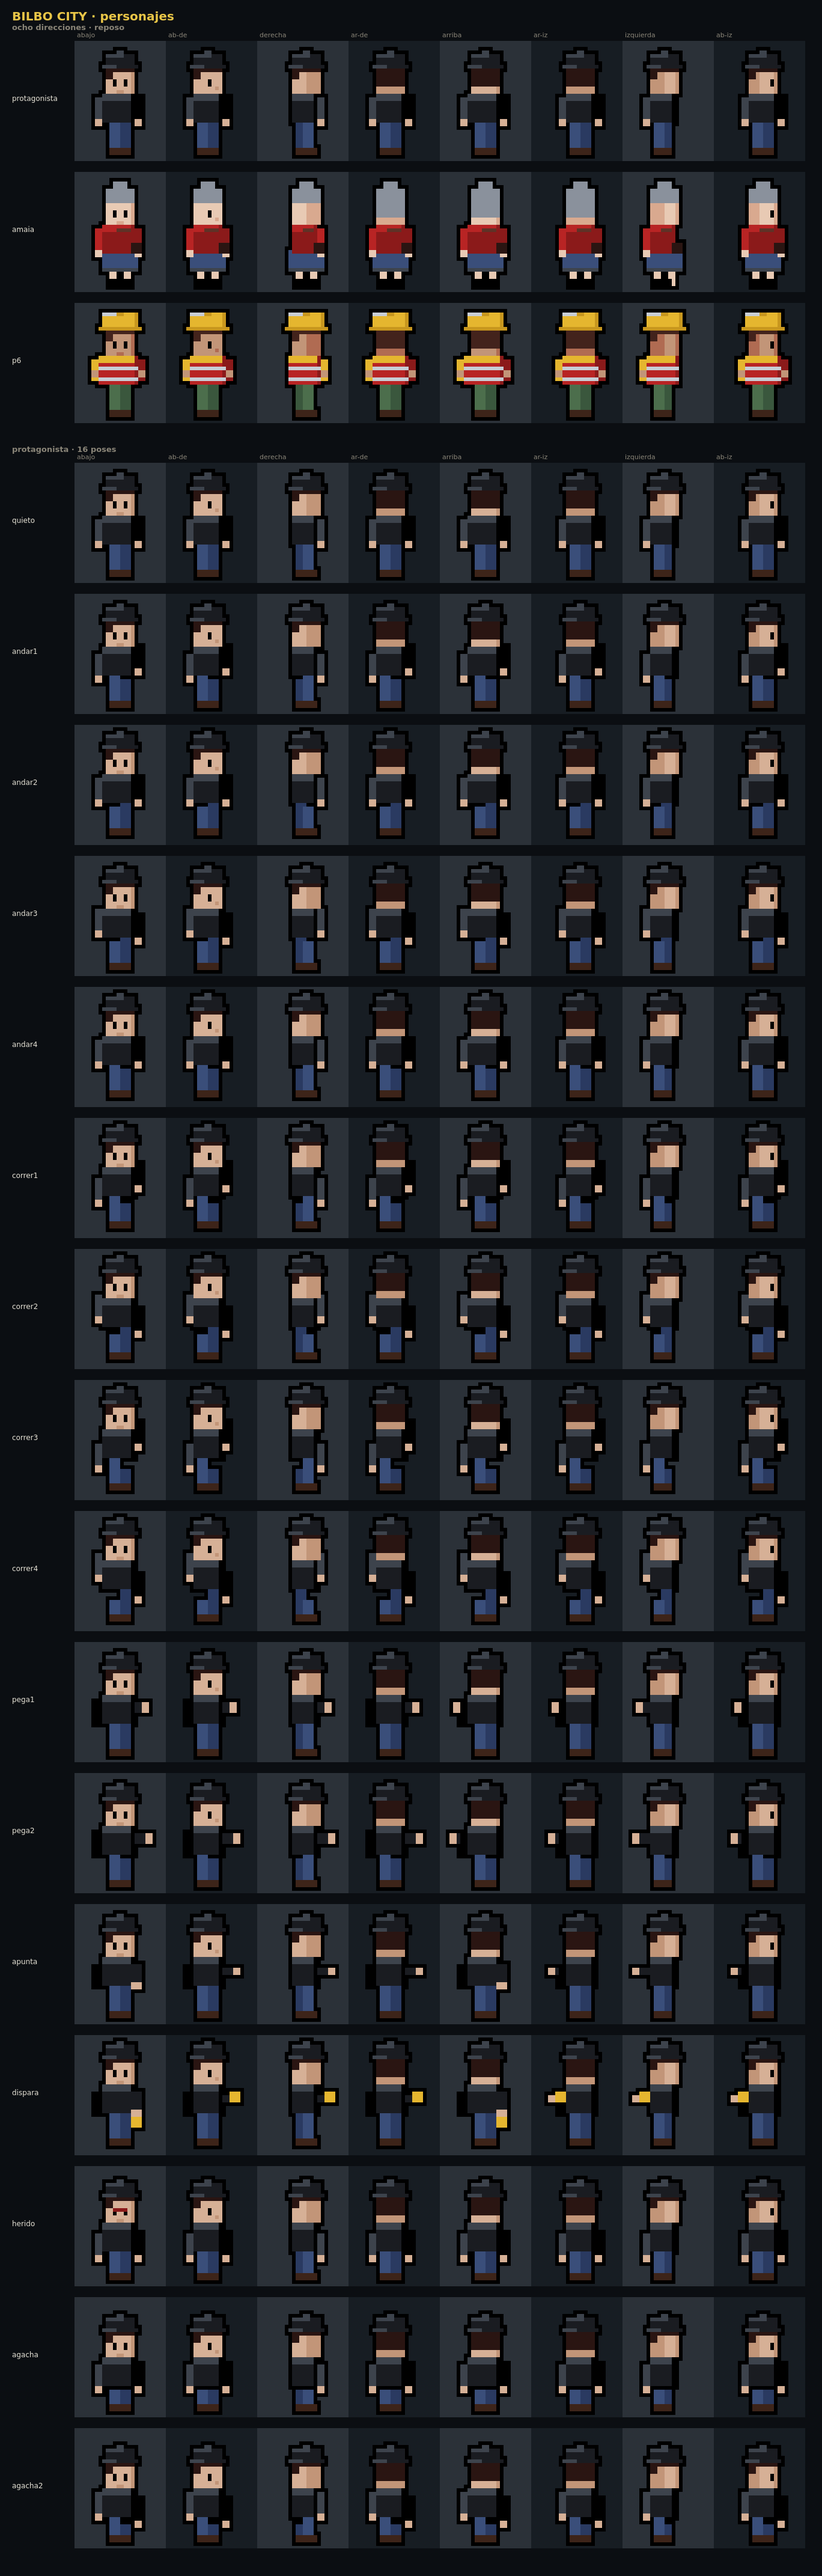
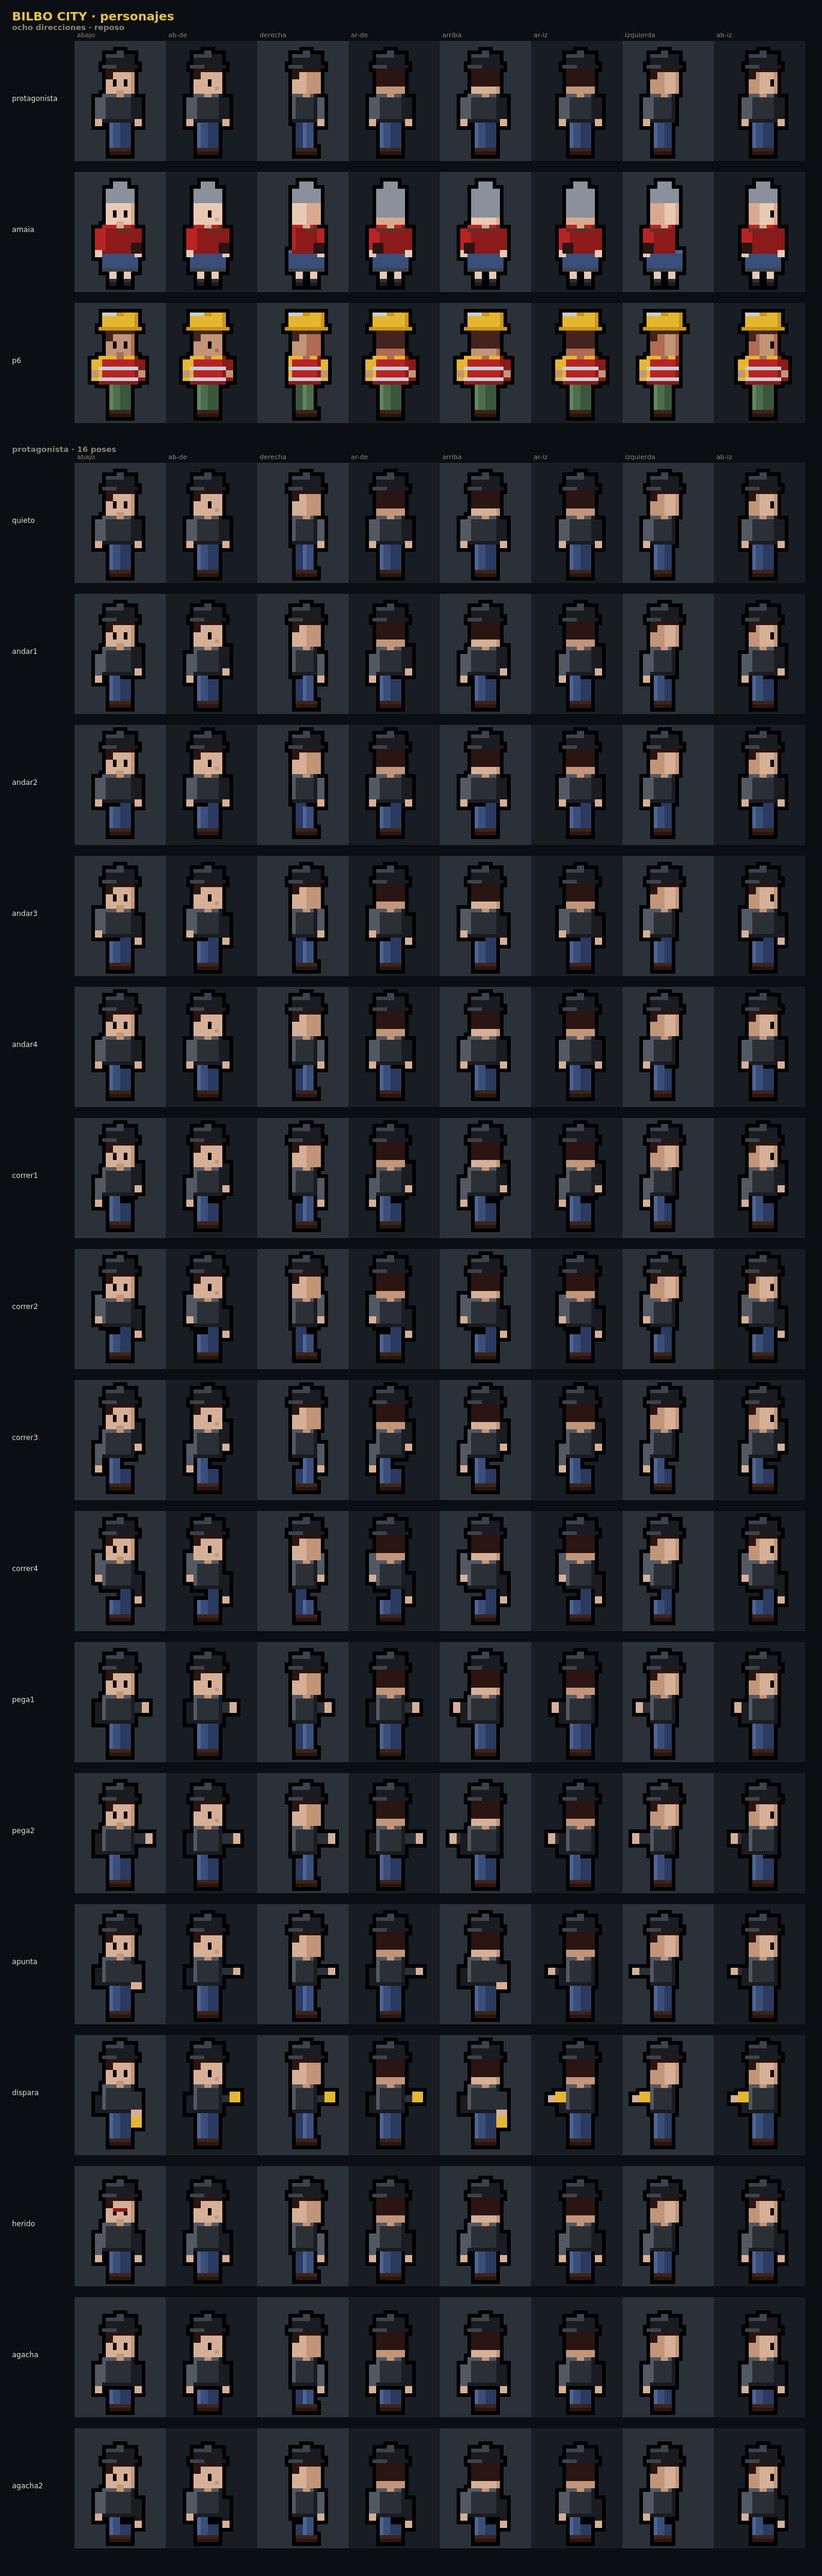
feat(bilbo-city): volumen de verdad en la ropa, y el bolso gira con el cuerpo
La lámina a --esc 6 dejaba ver cuatro cosas. Tres eran el mismo fallo por
debajo: la ropa se pintaba casi plana.

- Ninguna sombra puede ser el color del contorno. `cazadora`, `uniforme`,
  `delantal`, `vestir` y `uniformeP` llevaban `s: negro`, que es justo el
  color que pone `contorno()`: el costado derecho de la figura se comía la
  silueta y sobre fondo oscuro la cazadora del protagonista desaparecía
  entera. Ahora la sombra baja un escalón de familia y el contorno se ve.
- El torso, como manda ESTILO.md. Antes el tono claro eran las dos filas de
  arriba enteras —una franja, no volumen—. Ahora 1 px claro arriba y a la
  izquierda, base en el cuerpo, oscuro abajo y a la derecha. La fila oscura
  de abajo hace de dobladillo y despega el torso de las perneras.
- Las perneras y el calzado ganan su terna. La pierna de delante lleva canto
  claro; el zapato tiene suela. Un zapato de un solo tono se leía como un
  tapón, y si ese tono era el negro del contorno, ni eso.
- El bolso estaba clavado en el mismo costado en las ocho direcciones. Va
  colgado de un hombro: de espaldas se ve al otro lado y la correa cruza
  entera; de perfil, solo el bulto que mira.

Dos de propina, que se veían al arreglar lo anterior: dos píxeles de cuello
bajo la barbilla —sin ellos la cabeza se apoya en los hombros y la figura es
un muñeco de dos piezas— y los pies bajo falda, que se dibujaban con la
plantilla lateral de tres y cuatro píxeles sobre perneras de dos, y asomaba
[…]

diff --git a/bilbo-city/referencia/bilbo-city.html b/bilbo-city/referencia/bilbo-city.html
@@ -2101,7 +2101,7 @@ const TORSOS={
  camisa:{b:C.blanco,s:C.crema,l:C.blanco,manga:'larga'},
  camisaRem:{b:C.blanco,s:C.crema,l:C.blanco,manga:'corta'},
  chaqueta:{b:C.azul,s:C.azulO,l:C.azulL,manga:'larga'},
- cazadora:{b:C.carbon,s:C.negro,l:C.gris,manga:'larga'},
+ cazadora:{b:C.asfalto,s:C.carbon,l:C.grisL,manga:'larga'},
  sudadera:{b:C.grisL,s:C.gris,l:C.acero,manga:'larga',capucha:1},
  chandal:{b:C.verde,s:C.verdeO,l:C.verdeL,manga:'larga',raya:C.hueso},
  mono:{b:C.azulL,s:C.azul,l:C.acero,manga:'larga',peto:1},
@@ -2109,19 +2109,22 @@ const TORSOS={
  gabardina:{b:C.crema,s:C.hormigonO,l:C.hueso,manga:'larga',largo:1},
  jersey:{b:C.rojoO,s:C.sangre,l:C.rojo,manga:'larga'},
  bata:{b:C.blanco,s:C.crema,l:C.blanco,manga:'larga',largo:1},
- uniforme:{b:C.azulO,s:C.negro,l:C.azul,manga:'larga',placa:1},
+ uniforme:{b:C.azulO,s:C.ria1,l:C.azul,manga:'larga',placa:1},
  camiseta:{b:C.mostaza,s:C.mostazaO,l:C.mostaza,manga:'corta'},
  polo:{b:C.verdeL,s:C.verde,l:C.verdeL,manga:'corta'},
  reflectante:{b:C.rojo,s:C.rojoO,l:C.mostaza,manga:'corta',bandas:1},
- delantal:{b:C.carbon,s:C.negro,l:C.gris,manga:'corta',mandil:1},
+ delantal:{b:C.asfalto,s:C.carbon,l:C.grisL,manga:'corta',mandil:1},
 };
 const PIERNAS={
- vaquero:{b:'#3a4f6b',s:'#2c3d53'},vestir:{b:C.carbon,s:C.negro},
- chandalP:{b:C.verdeO,s:'#24422a',raya:C.hueso},monoP:{b:C.azulL,s:C.azul},
- falda:{b:C.morado,s:'#443759',falda:1},short:{b:C.crema,s:C.hormigonO,corto:1},
- cargo:{b:'#5d5b45',s:'#474535'},uniformeP:{b:C.azulO,s:C.negro},
+ vaquero:{b:'#3a4f6b',s:'#2c3d53',l:C.ria5},vestir:{b:C.asfalto,s:C.carbon,l:C.gris},
+ chandalP:{b:C.verdeO,s:'#24422a',l:C.verde,raya:C.hueso},monoP:{b:C.azulL,s:C.azul,l:C.ria5},
+ falda:{b:C.morado,s:'#443759',l:C.ria5,falda:1},short:{b:C.crema,s:C.hormigonO,l:C.hueso,corto:1},
+ cargo:{b:'#5d5b45',s:'#474535',l:C.verde5},uniformeP:{b:C.azulO,s:C.ria1,l:C.azul},
 };
-const CALZADO={deportivas:C.blanco,botas:'#3a2d22',zapatos:C.negro,katiuskas:C.mostazaO};
+/* El calzado va con su terna como todo lo demás: la suela es la sombra. Un zapato de un
+   solo tono se leía como un tapón, y si ese tono era el negro del contorno, ni eso. */
+const CALZADO={deportivas:{b:C.blanco,s:C.acero},botas:{b:'#3a2d22',s:C.ladrillo0},
+ zapatos:{b:C.asfalto,s:C.carbon},katiuskas:{b:C.mostazaO,s:C.luz2}};
 
 function dibChar(cfg,pose,d8){
  const M=MAPA8[d8], dir=M.b, frente=M.f, espalda=M.e;
@@ -2133,24 +2136,47 @@ function dibChar(cfg,pose,d8){
  const oy=P_.y, yt=P_.yt||0, w=comp.w, hom=comp.hom-(diag?1:0)-(lateral?2:0);
  const izqV=dir===IZ, derV=dir===DE, arr=(dir===AR)||espalda;
  const py=17+oy, l1=P_.p[0], l2=P_.p[1];
- if(PN.falda){P(g,cx-w/2-1,py-1,w+2,6,PN.b);P(g,cx-w/2-1,py+4,w+2,1,PN.s);
-  P(g,cx-3,py+5,2,4,cfg.piel);P(g,cx+1,py+5,2,4,cfg.piel);}
+ /* La pernera de delante lleva su canto claro a la izquierda, que es de donde viene la
+    luz, y la de detrás se queda en sombra: sin eso las dos piernas son un solo bloque. */
+ if(PN.falda){P(g,cx-w/2-1,py-1,w+2,6,PN.b);P(g,cx-w/2-1,py-1,w+2,1,PN.l);P(g,cx-w/2-1,py+4,w+2,1,PN.s);
+  P(g,cx-3,py+5,2,4,cfg.piel);P(g,cx+1,py+5,2,4,cfg.piel);
+  P(g,cx-3,py+8,2,1,cfg.pielS);P(g,cx+1,py+8,2,1,cfg.pielS);}
  else if(lateral){const dx=derV?1:-1;
   P(g,cx-2-dx,py+l2,3,8-l2,PN.s);P(g,cx-2+dx,py+l1,3,8-l1,PN.b);
+  P(g,cx-2+dx,py+l1,1,8-l1,PN.l);
   if(PN.corto)P(g,cx-2+dx,py+4,3,4,cfg.piel);}
  else{P(g,cx-3,py+l1,3,8-l1,PN.b);P(g,cx,py+l2,3,8-l2,PN.s);
+  P(g,cx-3,py+l1,1,8-l1,PN.l);
   if(PN.raya){P(g,cx-3,py+l1,1,8-l1,PN.raya);P(g,cx+2,py+l2,1,8-l2,PN.raya);}
   if(PN.corto){P(g,cx-3,py+4,3,4,cfg.piel);P(g,cx,py+4,3,4,cfg.piel);}}
- if(lateral){const dx=derV?1:-1;
-  P(g,cx-2-dx,24+oy,3,2,CALZADO[cfg.calzado]);P(g,cx-2+dx,24+oy,4,2,CALZADO[cfg.calzado]);}
- else{P(g,cx-3,24+oy,3,2,CALZADO[cfg.calzado]);P(g,cx,24+oy,3,2,CALZADO[cfg.calzado]);}
+ /* Bajo falda los pies van donde la falda deja las piernas —dos píxeles— y no donde los
+    pone la plantilla lateral, que son tres y cuatro: descuadrados asomaba medio zapato por
+    fuera de la pernera. */
+ const Z=CALZADO[cfg.calzado];
+ if(PN.falda){P(g,cx-3,24+oy,2,2,Z.b);P(g,cx+1,24+oy,2,2,Z.b);
+  P(g,cx-3,25+oy,2,1,Z.s);P(g,cx+1,25+oy,2,1,Z.s);}
+ else if(lateral){const dx=derV?1:-1;
+  P(g,cx-2-dx,24+oy,3,2,Z.b);P(g,cx-2+dx,24+oy,4,2,Z.b);
+  P(g,cx-2-dx,25+oy,3,1,Z.s);P(g,cx-2+dx,25+oy,4,1,Z.s);}
+ else{P(g,cx-3,24+oy,3,2,Z.b);P(g,cx,24+oy,3,2,Z.b);
+  P(g,cx-3,25+oy,3,1,Z.s);P(g,cx,25+oy,3,1,Z.s);}
  const ty=9+oy+yt,th=T.largo?10:8;
- P(g,cx-hom/2,ty,hom,th,T.b);P(g,cx-hom/2,ty,hom,2,T.l);P(g,cx+hom/2-1,ty,1,th,T.s);
+ /* Antes el tono claro eran las dos filas de arriba enteras: eso no es volumen, es una
+    franja, y el torso quedaba de cartón. La regla de ESTILO.md es 1 px claro arriba y a la
+    izquierda, base en el cuerpo y oscuro abajo y a la derecha. La fila oscura de abajo hace
+    además de dobladillo y despega el torso de las perneras. */
+ P(g,cx-hom/2,ty,hom,th,T.b);
+ P(g,cx-hom/2,ty,hom,1,T.l);P(g,cx-hom/2,ty,1,th,T.l);
+ P(g,cx+hom/2-1,ty,1,th,T.s);P(g,cx-hom/2,ty+th-1,hom,1,T.s);
  if(T.raya)P(g,cx-hom/2,ty,1,th,T.raya);
  if(T.peto){P(g,cx-hom/2+1,ty+2,hom-2,5,T.l);P(g,cx-1,ty+3,2,2,T.s);}
  if(T.bandas){P(g,cx-hom/2,ty+3,hom,1,C.hueso);P(g,cx-hom/2,ty+6,hom,1,C.hueso);}
- if(T.mandil&&!arr)P(g,cx-hom/2+1,ty+2,hom-2,th-1,C.crema);
+ if(T.mandil&&!arr)P(g,cx-hom/2+1,ty+2,hom-2,th-3,C.crema);
  if(T.placa&&!arr)P(g,cx-hom/2+1,ty+3,2,2,C.mostaza);
+ /* Dos píxeles de cuello bajo la barbilla. Sin ellos la cabeza se apoya en los hombros
+    sin transición y la figura parece un muñeco de dos piezas. Bajo capucha no van: ahí lo
+    que hay es tela. */
+ if(!T.capucha)P(g,cx-1,ty,2,1,cfg.pielS);
  if(T.capucha)P(g,cx-hom/2,ty-1,hom,3,T.s);
  const b1=P_.b[0],b2=P_.b[1];
  const manoY=T.manga==='corta'?ty+4:ty+7, bx1=cx-hom/2-2, bx2=cx+hom/2;
@@ -2223,7 +2249,14 @@ function capasEncima(g,cfg,cx,hy,ty,hom,E,soloGrandes){
  const A=cfg.acces;
  if(A==='mochila'){if(arr)P(g,cx-4,ty+1,8,7,C.verdeO);
   else{P(g,cx-hom/2-1,ty+2,2,5,C.verdeO);P(g,cx+hom/2-1,ty+2,2,5,C.verdeO);}}
- else if(A==='bolso'){P(g,cx+hom/2-1,ty+5,3,3,C.maderaO);P(g,cx-1,ty+1,hom/2,1,C.madera);}
+ /* El bolso va colgado de un hombro y por eso no puede quedarse clavado en el mismo
+    costado en las ocho direcciones, que es lo que hacía: de espaldas se ve al otro lado y
+    la correa cruza entera; de perfil, solo el bulto del lado que mira. */
+ else if(A==='bolso'){
+  if(arr){P(g,cx-hom/2-1,ty+5,3,3,C.maderaO);P(g,cx-hom/2,ty+1,hom,1,C.madera);}
+  else if(izqV){P(g,cx-hom/2-2,ty+5,3,3,C.maderaO);P(g,cx-hom/2,ty+1,hom/2,1,C.madera);}
+  else if(derV){P(g,cx+hom/2-1,ty+5,3,3,C.maderaO);P(g,cx,ty+1,hom/2,1,C.madera);}
+  else{P(g,cx+hom/2-1,ty+5,3,3,C.maderaO);P(g,cx-1,ty+1,hom/2,1,C.madera);}}
  else if(A==='bandolera'){P(g,cx-hom/2,ty+1,hom,1,C.maderaO);P(g,cx-hom/2-1,ty+5,2,3,C.madera);}
  else if(A==='bufanda'){P(g,cx-4,ty-1,8,2,C.rojo);P(g,cx+1,ty+1,2,4,C.rojoO);}
  else if(A==='gafas'&&dir===AB){P(g,cx-3,hy+4,2,2,C.carbon);P(g,cx+1,hy+4,2,2,C.carbon);P(g,cx-1,hy+4,2,1,C.carbon);}
@@ -2372,8 +2405,8 @@ function lutDe(cfg){
  pinta(R.pelo,cfg.pelo==='calvo'?[cfg.pielS,cfg.piel]
   :[cfg.pelo==='canoso'?C.pelo5:cfg.pelocol]);
  pinta(R.torso,[T.s,T.b,T.l]);
- pinta(R.piernas,[PN.s,PN.b]);
- pinta(R.calzado,[CALZADO[cfg.calzado]]);
+ pinta(R.piernas,[PN.s,PN.b,PN.l]);
+ pinta(R.calzado,[CALZADO[cfg.calzado].s,CALZADO[cfg.calzado].b]);
  return lut;}
 
 /* Dónde tiene la cabeza esta casilla de la hoja. No se da por supuesto: el dibujo traído

diff --git a/bilbo-city/unity/BilboCity/Assets/Scripts/Arte/ForjaChar.cs b/bilbo-city/unity/BilboCity/Assets/Scripts/Arte/ForjaChar.cs
@@ -73,7 +73,7 @@ public static class ForjaChar {
                 {"camisa",     new Prenda{ b=Paleta.Blanco, s=Paleta.Crema, l=Paleta.Blanco }},
                 {"camisaRem",  new Prenda{ b=Paleta.Blanco, s=Paleta.Crema, l=Paleta.Blanco, corta=true }},
                 {"chaqueta",   new Prenda{ b=Paleta.Azul, s=Paleta.AzulO, l=Paleta.AzulL }},
-                {"cazadora",   new Prenda{ b=Paleta.Carbon, s=Paleta.Negro, l=Paleta.Gris }},
+                {"cazadora",   new Prenda{ b=Paleta.Asfalto, s=Paleta.Carbon, l=Paleta.GrisL }},
                 {"sudadera",   new Prenda{ b=Paleta.GrisL, s=Paleta.Gris, l=Paleta.Acero, capucha=true }},
                 {"chandal",    new Prenda{ b=Paleta.Verde, s=Paleta.VerdeO, l=Paleta.VerdeL, raya=Paleta.Hueso, tieneRaya=true }},
                 {"mono",       new Prenda{ b=Paleta.AzulL, s=Paleta.Azul, l=Paleta.Acero, peto=true }},
@@ -81,41 +81,42 @@ public static class ForjaChar {
                 {"gabardina",  new Prenda{ b=Paleta.Crema, s=Paleta.HormigonO, l=Paleta.Hueso, largo=true }},
                 {"jersey",     new Prenda{ b=Paleta.RojoO, s=Paleta.Sangre, l=Paleta.Rojo }},
                 {"bata",       new Prenda{ b=Paleta.Blanco, s=Paleta.Crema, l=Paleta.Blanco, largo=true }},
-                {"uniforme",   new Prenda{ b=Paleta.AzulO, s=Paleta.Negro, l=Paleta.Azul, placa=true }},
+                {"uniforme",   new Prenda{ b=Paleta.AzulO, s=Paleta.Ria1, l=Paleta.Azul, placa=true }},
                 {"camiseta",   new Prenda{ b=Paleta.Mostaza, s=Paleta.MostazaO, l=Paleta.Mostaza, corta=true }},
                 {"polo",       new Prenda{ b=Paleta.VerdeL, s=Paleta.Verde, l=Paleta.VerdeL, corta=true }},
                 {"reflectante",new Prenda{ b=Paleta.Rojo, s=Paleta.RojoO, l=Paleta.Mostaza, corta=true, bandas=true }},
-                {"delantal",   new Prenda{ b=Paleta.Carbon, s=Paleta.Negro, l=Paleta.Gris, corta=true, mandil=true }},
+                {"delantal",   new Prenda{ b=Paleta.Asfalto, s=Paleta.Carbon, l=Paleta.GrisL, corta=true, mandil=true }},
             };
             return _torsos;
         }
     }
 
-    struct Pantalon { public Color32 b, s, raya; public bool tieneRaya, falda, corto; }
+    struct Pantalon { public Color32 b, s, l, raya; public bool tieneRaya, falda, corto; }
     static Dictionary<string,Pantalon> _piernas;
     static Dictionary<string,Pantalon> Piernas {
         get {
             if (_piernas != null) return _piernas;
             _piernas = new Dictionary<string,Pantalon> {
-                {"vaquero",   new Pantalon{ b=Paleta.H("#3a4f6b"), s=Paleta.H("#2c3d53") }},
-                {"vestir",    new Pantalon{ b=Paleta.Carbon, s=Paleta.Negro }},
-                {"chandalP",  new Pantalon{ b=Paleta.VerdeO, s=Paleta.H("#24422a"), raya=Paleta.Hueso, tieneRaya=true }},
-                {"monoP",     new Pantalon{ b=Paleta.AzulL, s=Paleta.Azul }},
-                {"falda",     new Pantalon{ b=Paleta.Morado, s=Paleta.H("#443759"), falda=true }},
-                {"short",     new Pantalon{ b=Paleta.Crema, s=Paleta.HormigonO, corto=true }},
-                {"cargo",     new Pantalon{ b=Paleta.H("#5d5b45"), s=Paleta.H("#474535") }},
-                {"uniformeP", new Pantalon{ b=Paleta.AzulO, s=Paleta.Negro }},
+                {"vaquero",   new Pantalon{ b=Paleta.H("#3a4f6b"), s=Paleta.H("#2c3d53"), l=Paleta.Ria5 }},
+                {"vestir",    new Pantalon{ b=Paleta.Asfalto, s=Paleta.Carbon, l=Paleta.Gris }},
+                {"chandalP",  new Pantalon{ b=Paleta.VerdeO, s=Paleta.H("#24422a"), l=Paleta.Verde, raya=Paleta.Hueso, tieneRaya=true }},
+                {"monoP",     new Pantalon{ b=Paleta.AzulL, s=Paleta.Azul, l=Paleta.Ria5 }},
+                {"falda",     new Pantalon{ b=Paleta.Morado, s=Paleta.H("#443759"), l=Paleta.Ria5, falda=true }},
+                {"short",     new Pantalon{ b=Paleta.Crema, s=Paleta.HormigonO, l=Paleta.Hueso, corto=true }},
+                {"cargo",     new Pantalon{ b=Paleta.H("#5d5b45"), s=Paleta.H("#474535"), l=Paleta.Verde5 }},
+                {"uniformeP", new Pantalon{ b=Paleta.AzulO, s=Paleta.Ria1, l=Paleta.Azul }},
             };
             return _piernas;
         }
     }
 
-    static Color32 Calzado(string k) {
+    struct Zapato { public Color32 b, s; }
+    static Zapato Calzado(string k) {
         switch (k) {
-            case "deportivas": return Paleta.Blanco;
-            case "botas":      return Paleta.H("#3a2d22");
-            case "katiuskas":  return Paleta.MostazaO;
-            default:           return Paleta.Negro;
+            case "deportivas": return new Zapato{ b=Paleta.Blanco,   s=Paleta.Acero };
+            case "botas":      return new Zapato{ b=Paleta.H("#3a2d22"), s=Paleta.Ladrillo0 };
+            case "katiuskas":  return new Zapato{ b=Paleta.MostazaO, s=Paleta.Luz2 };
+            default:           return new Zapato{ b=Paleta.Asfalto,  s=Paleta.Carbon };
         }
     }
 
@@ -222,37 +223,66 @@ public static class ForjaChar {
 
         // ── piernas ──
         int py = MG_ARR + 17 + oy, l1 = P_.p0, l2 = P_.p1;
+        // La pernera de delante lleva su canto claro a la izquierda, que es de donde viene
+        // la luz, y la de detrás se queda en sombra: sin eso las dos piernas son un bloque.
         if (PN.falda) {
             L.P(cx - compW/2 - 1, py - 1, compW + 2, 6, PN.b);
+            L.P(cx - compW/2 - 1, py - 1, compW + 2, 1, PN.l);
             L.P(cx - compW/2 - 1, py + 4, compW + 2, 1, PN.s);
             L.P(cx - 3, py + 5, 2, 4, cfg.Piel);
             L.P(cx + 1, py + 5, 2, 4, cfg.Piel);
+            L.P(cx - 3, py + 8, 2, 1, cfg.PielS);
+            L.P(cx + 1, py + 8, 2, 1, cfg.PielS);
         } else if (lateral) {
             int dx = derV ? 1 : -1;
             L.P(cx - 2 - dx, py + l2, 3, 8 - l2, PN.s);
             L.P(cx - 2 + dx, py + l1, 3, 8 - l1, PN.b);
+            L.P(cx - 2 + dx, py + l1, 1, 8 - l1, PN.l);
             if (PN.corto) L.P(cx - 2 + dx, py + 4, 3, 4, cfg.Piel);
         } else {
             L.P(cx - 3, py + l1, 3, 8 - l1, PN.b);
             L.P(cx, py + l2, 3, 8 - l2, PN.s);
+            L.P(cx - 3, py + l1, 1, 8 - l1, PN.l);
             if (PN.tieneRaya) { L.P(cx - 3, py + l1, 1, 8 - l1, PN.raya); L.P(cx + 2, py + l2, 1, 8 - l2, PN.raya); }
             if (PN.corto) { L.P(cx - 3, py + 4, 3, 4, cfg.Piel); L.P(cx, py + 4, 3, 4, cfg.Piel); }
         }
+        // Bajo falda los pies van donde la falda deja las piernas —dos píxeles— y no donde
+        // los pone la plantilla lateral, que son tres y cuatro: descuadrados asomaba medio
+        // zapato por fuera de la pernera.
         var zap = Calzado(cfg.Calzado);
         int zy = MG_ARR + 24 + oy;
-        if (lateral) { int dx = derV ? 1 : -1; L.P(cx - 2 - dx, zy, 3, 2, zap); L.P(cx - 2 + dx, zy, 4, 2, zap); }
-        else { L.P(cx - 3, zy, 3, 2, zap); L.P(cx, zy, 3, 2, zap); }
+        if (PN.falda) {
+            L.P(cx - 3, zy, 2, 2, zap.b); L.P(cx + 1, zy, 2, 2, zap.b);
+            L.P(cx - 3, zy + 1, 2, 1, zap.s); L.P(cx + 1, zy + 1, 2, 1, zap.s);
+        } else if (lateral) {
+            int dx = derV ? 1 : -1;
+            L.P(cx - 2 - dx, zy, 3, 2, zap.b); L.P(cx - 2 + dx, zy, 4, 2, zap.b);
+            L.P(cx - 2 - dx, zy + 1, 3, 1, zap.s); L.P(cx - 2 + dx, zy + 1, 4, 1, zap.s);
+        } else {
+            L.P(cx - 3, zy, 3, 2, zap.b); L.P(cx, zy, 3, 2, zap.b);
+            L.P(cx - 3, zy + 1, 3, 1, zap.s); L.P(cx, zy + 1, 3, 1, zap.s);
+        }
 
         // ── torso ──
         int ty = MG_ARR + 9 + oy + P_.yt, th = T.largo ? 10 : 8;
+        // Antes el tono claro eran las dos filas de arriba enteras: eso no es volumen, es
+        // una franja, y el torso quedaba de cartón. La regla de ESTILO.md es 1 px claro
+        // arriba y a la izquierda, base en el cuerpo y oscuro abajo y a la derecha. La fila
+        // oscura de abajo hace además de dobladillo y despega el torso de las perneras.
         L.P(cx - hom/2, ty, hom, th, T.b);
-        L.P(cx - hom/2, ty, hom, 2, T.l);
+        L.P(cx - hom/2, ty, hom, 1, T.l);
+        L.P(cx - hom/2, ty, 1, th, T.l);
         L.P(cx + hom/2 - 1, ty, 1, th, T.s);
+        L.P(cx - hom/2, ty + th - 1, hom, 1, T.s);
         if (T.tieneRaya) L.P(cx - hom/2, ty, 1, th, T.raya);
         if (T.peto) { L.P(cx - hom/2 + 1, ty + 2, hom - 2, 5, T.l); L.P(cx - 1, ty + 3, 2, 2, T.s); }
         if (T.bandas) { L.P(cx - hom/2, ty + 3, hom, 1, Paleta.Hueso); L.P(cx - hom/2, ty + 6, hom, 1, Paleta.Hueso); }
-        if (T.mandil && !arr) L.P(cx - hom/2 + 1, ty + 2, hom - 2, th - 1, Paleta.Crema);
+        if (T.mandil && !arr) L.P(cx - hom/2 + 1, ty + 2, hom - 2, th - 3, Paleta.Crema);
         if (T.placa && !arr) L.P(cx - hom/2 + 1, ty + 3, 2, 2, Paleta.Mostaza);
+        // Dos píxeles de cuello bajo la barbilla. Sin ellos la cabeza se apoya en los
+        // hombros sin transición y la figura parece un muñeco de dos piezas. Bajo capucha
+        // no van: ahí lo que hay es tela.
+        if (!T.capucha) L.P(cx - 1, ty, 2, 1, cfg.PielS);
         if (T.capucha) L.P(cx - hom/2, ty - 1, hom, 3, T.s);
 
         // ── brazos ──
@@ -351,8 +381,15 @@ public static class ForjaChar {
                 if (arr) L.P(cx - 4, ty + 1, 8, 7, Paleta.VerdeO);
                 else { L.P(cx - hom/2 - 1, ty + 2, 2, 5, Paleta.VerdeO); L.P(cx + hom/2 - 1, ty + 2, 2, 5, Paleta.VerdeO); }
                 break;
+            // El bolso va colgado de un hombro y por eso no puede quedarse clavado en el
+            // mismo costado en las ocho direcciones, que es lo que hacía: de espaldas se ve
+            // al otro lado y la correa cruza entera; de perfil, solo el bulto que mira.
             case "bolso":
-                L.P(cx + hom/2 - 1, ty + 5, 3, 3, Paleta.MaderaO); L.P(cx - 1, ty + 1, hom/2, 1, Paleta.Madera); break;
+                if (arr) { L.P(cx - hom/2 - 1, ty + 5, 3, 3, Paleta.MaderaO); L.P(cx - hom/2, ty + 1, hom, 1, Paleta.Madera); }
+                else if (izqV) { L.P(cx - hom/2 - 2, ty + 5, 3, 3, Paleta.MaderaO); L.P(cx - hom/2, ty + 1, hom/2, 1, Paleta.Madera); }
+                else if (derV) { L.P(cx + hom/2 - 1, ty + 5, 3, 3, Paleta.MaderaO); L.P(cx, ty + 1, hom/2, 1, Paleta.Madera); }
+                else { L.P(cx + hom/2 - 1, ty + 5, 3, 3, Paleta.MaderaO); L.P(cx - 1, ty + 1, hom/2, 1, Paleta.Madera); }
+                break;
             case "bandolera":
                 L.P(cx - hom/2, ty + 1, hom, 1, Paleta.MaderaO); L.P(cx - hom/2 - 1, ty + 5, 2, 3, Paleta.Madera); break;
             case "bufanda":
